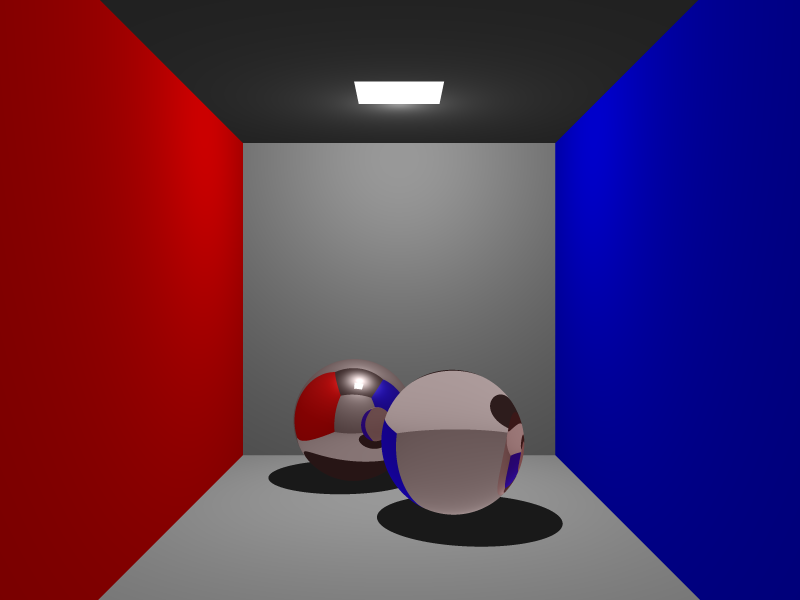
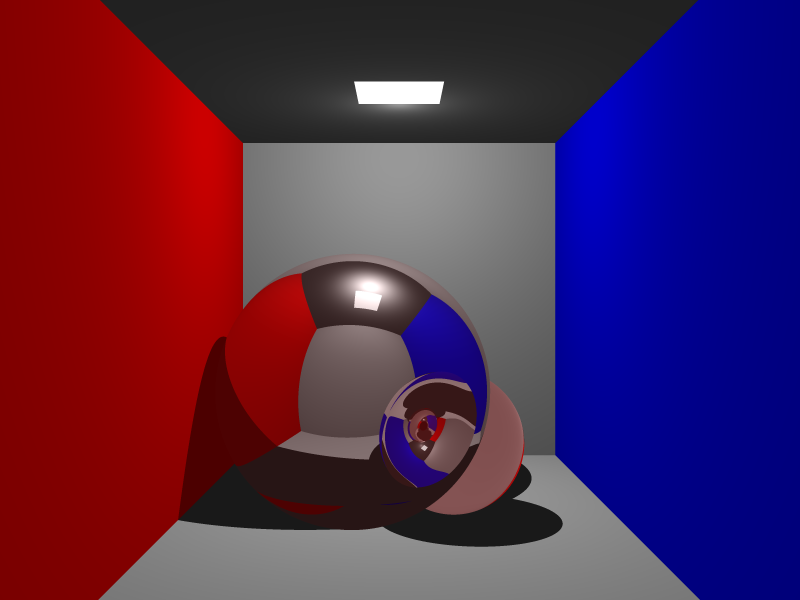
Testing scaling again: it works

Changed region(s): [[0.2188, 0.42, 0.6875, 0.9]]

diff --git a/VCG_Raytracer/src/Main.java b/VCG_Raytracer/src/Main.java
@@ -120,7 +120,7 @@ public class Main {
         Material sphereMaterial1 = new PhongMaterial(RgbColor.DARK_CUSTOM, RgbColor.DARK_GRAY, RgbColor.WHITE, PhongMaterial.SHINY, Material.MOST_REFLECTION, Material.NO_TRANSMISSION, 1);
         Material sphereMaterial2 = new PhongMaterial(RgbColor.DARK_CUSTOM, RgbColor.DARK_GRAY, RgbColor.WHITE, PhongMaterial.SHINY, Material.NO_REFLECTION, Material.DIAMOND, 1);
 
-        renderScene.createSphere(new Vec3(-DIMENSION/4f, -DIMENSION + sphereRadius, -DIMENSION/3f+3), sphereMaterial1, sphereRadius);
+        renderScene.createSphere(new Vec3(-DIMENSION/4f, -DIMENSION + 1.5f, -DIMENSION/3f+3), sphereMaterial1, 1.5f);
         renderScene.createSphere(new Vec3(DIMENSION/4f, -DIMENSION + sphereRadius, DIMENSION/3f+3), sphereMaterial2, sphereRadius);
 
         Material planeMaterial = new AmbientMaterial(RgbColor.WHITE);

diff --git a/VCG_Raytracer/src/scene/shapes/Shape.java b/VCG_Raytracer/src/scene/shapes/Shape.java
@@ -16,6 +16,7 @@ public abstract class Shape extends SceneObject {
     protected String type;
     protected Matrix4x4 orgTransformation;
     protected Matrix4x4 invTransformation;
+    protected Matrix4x4 trpTransformation;
 
     public Shape(Vec3 pos, Material mat, Matrix4x4 transf, String type) {
         super(pos);
@@ -23,6 +24,7 @@ public abstract class Shape extends SceneObject {
         this.type = type;
         this.orgTransformation = transf;
         this.invTransformation = transf.invert();
+        this.trpTransformation = transf.transpose();
         Log.print(this, "Init " + this.orgTransformation);
     }
 
